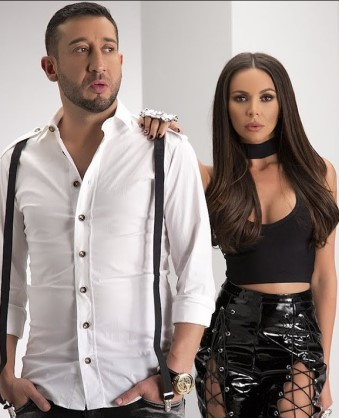
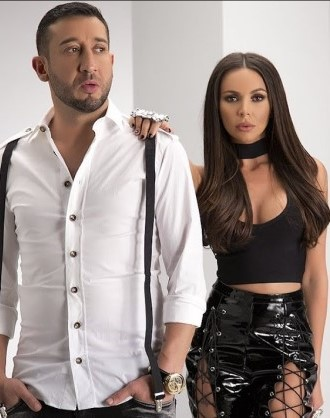
edited border-radius on images and added new background

diff --git a/docs/mans.html b/docs/mans.html
@@ -24,14 +24,7 @@
 
             </ul>
         </div>
-        <div clas="content">
-            <!-- <div class="left">
-                <h1> . <br> . <br> ALBUM</h1>
-            </div>
-            <div class="right">
-                <p>Click To Play</p>
-                <img src="./images/play.png" id="icon"> -->
-        </div>
+
 
         <div align="center">
             <div class="dropdown">
@@ -39,16 +32,14 @@
                 <div class="dropdown-content">
                     <a href="./mans.html" class="active">Поп фолк</a>
                     <a href="./folklor.html">Фолклор</a>
-                    <!-- <a href="https://www.youtube.com/user/hubspot">YouTube</a> -->
                 </div>
             </div>
 
             <div class="dropdown">
                 <button id="drpdwn">Пол - (М) <i class="bi bi-caret-down-fill"></i></button>
                 <div class="dropdown-content">
-                    <a href="./mans.html" class="active">Мъже</a>
-                    <a href="./album.html">Жени</a>
-                    <!-- <a href="https://www.youtube.com/user/hubspot">YouTube</a> -->
+                    <a href="./mans.html" class="active">Мъж</a>
+                    <a href="./album.html">Женa</a>
                 </div>
             </div>
         </div>
@@ -57,8 +48,8 @@
             <div class="newBody ">
 
                 <div>
-                    <div class="centerCards ">
-                        <button class="imgButton ">
+                    <div>
+                        <button class="imgButton3 ">
                             <h2>Адам - Agapi mou</h2>
                             <img src="./ManSingers/adam.jpg " id="icon2 ">
                             <h2>
@@ -68,7 +59,7 @@
                         </button>
 
 
-                        <button class="imgButton ">
+                        <button class="imgButton3 ">
                             <h2>Борис Дали - Някой богат</h2>
                             <img src="./ManSingers/BORIS_DALI.jpg " id="icon3 ">
                             <h2>
@@ -78,7 +69,7 @@
                             </h2>
                         </button>
 
-                        <button class="imgButton ">
+                        <button class="imgButton3 ">
                             <h2>Галин - Вендета</h2>
                             <img src="./ManSingers/galin.jpg " id="icon4 ">
                             <h2>
@@ -88,7 +79,7 @@
 
                         </button>
 
-                        <button class="imgButton ">
+                        <button class="imgButton3 ">
                             <h2>Денис Теофиков - Грешка беше</h2>
                             <img src="./ManSingers/teofikov.jpg " id="icon5 ">
                             <h2>

diff --git a/docs/bgMusic.html b/docs/bgMusic.html
@@ -27,8 +27,8 @@
             <div class="newBody ">
 
                 <div>
-                    <div class="centerCards ">
-                        <button class="imgButton ">
+                    <div id="imgCards-z">
+                        <button class="imgButton4 ">
                             <h2>Кали ft. Емануела - Хайде, вдигни й</h2>
                             <img src="./singers/duet/kali-emanuela.jpg" id="icon2 ">
                             <h2>
@@ -38,7 +38,7 @@
                         </button>
 
 
-                        <button class="imgButton ">
+                        <button class="imgButton4 ">
                             <h2>Алисия <br> ft. Тони Стораро - Кой ме срещна с тебе</h2>
                             <img src="./singers/duet/Alisia_ToniStoraro.jpg" id="icon3 ">
                             <h2>
@@ -48,7 +48,7 @@
                             </h2>
                         </button>
 
-                        <button class="imgButton ">
+                        <button class="imgButton4 ">
                             <h2>Алисия ft. Илиян - За последно</h2>
                             <img src="./singers/duet/alisia&ilian.jpg " id="icon4 ">
                             <h2>
@@ -58,7 +58,7 @@
 
                         </button>
 
-                        <button class="imgButton ">
+                        <button class="imgButton4 ">
                             <h2>Малина ft. Галин - Грехове</h2>
                             <img src="./singers/duet/malina&galin.jpg" id="icon5 ">
                             <h2>

diff --git a/docs/folklor.html b/docs/folklor.html
@@ -38,7 +38,7 @@
             <div class="dropdown">
                 <button id="drpdwn">Пол - (Ж) <i class="bi bi-caret-down-fill"></i></button>
                 <div class="dropdown-content">
-                    <a href="./folklor.html" class="active">Жени</a>
+                    <a href="./folklor.html" class="active">Женa</a>
                     <!-- <a href="https://www.youtube.com/user/hubspot">YouTube</a> -->
                 </div>
             </div>
@@ -46,7 +46,7 @@
         <div class="newBody2">
             <div class="newBody2">
 
-                <button class="imgButton ">
+                <button class="imgButton2 ">
                     <h2>Нелина - Пиринска младост</h2>
                     <img src="./singers/folklor/nelina.jpg" id="icon2">
                     <h2>
@@ -56,7 +56,7 @@
                 </button>
 
 
-                <button class="imgButton ">
+                <button class="imgButton2 ">
                     <h2>Райна - Тежко мина младостта</h2>
                     <img src="./singers/folklor/raina.jpg" id="icon3">
                     <h2>
@@ -65,7 +65,7 @@
                     </h2>
                 </button>
 
-                <button class="imgButton ">
+                <button class="imgButton2 ">
                     <h2>Яница - Мома Яница</h2>
                     <img src="./singers/folklor/yanitsa.jpg" id="icon4">
                     <h2>

diff --git a/docs/style2.css b/docs/style2.css
@@ -1,7 +1,7 @@
 #body2 {
     display: flex;
     align-items: center;
-    background-image: url("./images/annie-spratt-EmHXM2YUd7Q-unsplash.jpg");
+    background-image: url("./images/background-z2.jpg");
     background-position: center;
     background-size: cover;
     position: relative;
@@ -13,6 +13,7 @@
     justify-content: space-between;
     align-items: center;
     margin-left: 65px;
+    padding-top: 20px;
 }
 
 .active {
@@ -45,4 +46,50 @@
 
 .home1 {
     font-size: 50px;
+}
+
+.imgButton2 {
+    float: left;
+    margin-left: 131px;
+    cursor: pointer;
+    border-radius: 30px;
+    border-color: hotpink;
+    padding-top: 10px;
+}
+
+.imgButton2 :hover {
+    opacity: 0.7;
+    color: rgb(122, 116, 61);
+}
+
+.imgButton3 {
+    float: left;
+    margin-left: 109px;
+    cursor: pointer;
+    border-radius: 30px;
+    border-color: hotpink;
+    padding-top: 10px;
+}
+
+.imgButton3 :hover {
+    opacity: 0.7;
+    color: rgb(122, 116, 61);
+}
+
+.imgButton4 {
+    float: left;
+    margin-left: 88px;
+    cursor: pointer;
+    border-radius: 30px;
+    border-color: hotpink;
+    padding-top: 10px;
+}
+
+.imgButton4 :hover {
+    opacity: 0.7;
+    color: rgb(122, 116, 61);
+}
+
+#imgCards-z {
+    padding-top: 80px;
 }

diff --git a/docs/album.html b/docs/album.html
@@ -43,8 +43,8 @@
             <div class="dropdown">
                 <button id="drpdwn">Пол - (Ж) <i class="bi bi-caret-down-fill"></i></button>
                 <div class="dropdown-content">
-                    <a href="./mans.html">Мъже</a>
-                    <a href="./album.html" class="active">Жени</a>
+                    <a href="./mans.html">Мъж</a>
+                    <a href="./album.html" class="active">Женa</a>
                     <!-- <a href="https://www.youtube.com/user/hubspot">YouTube</a> -->
                 </div>
             </div>

diff --git a/docs/style.css b/docs/style.css
@@ -124,8 +124,9 @@ body {
     float: left;
     margin: 48px;
     cursor: pointer;
-    border-radius: 60px;
+    border-radius: 30px;
     border-color: hotpink;
+    padding-top: 10px;
 }
 
 .imgButton :hover {
